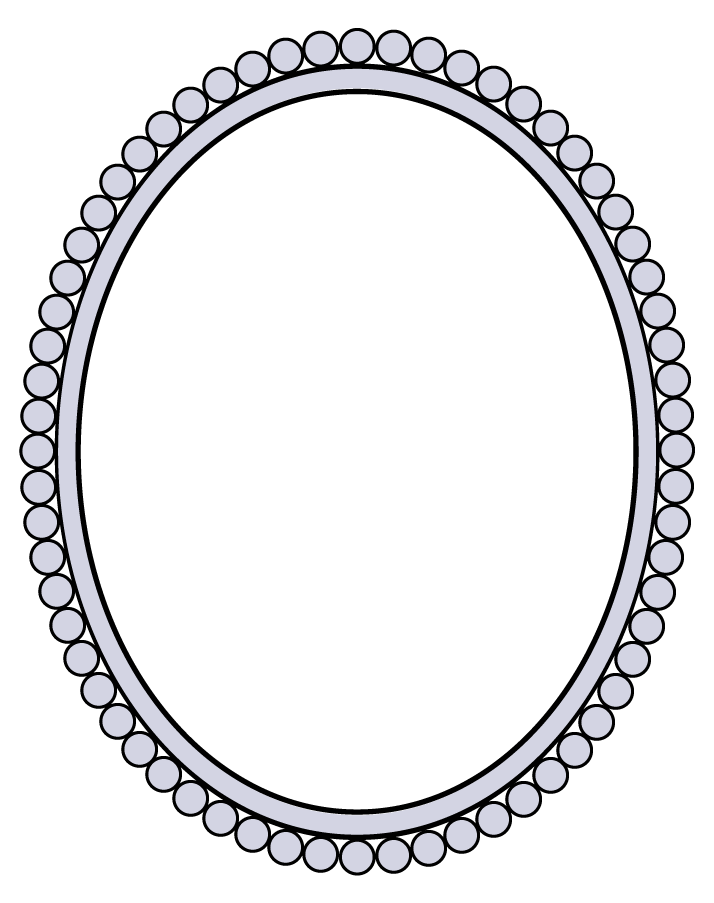
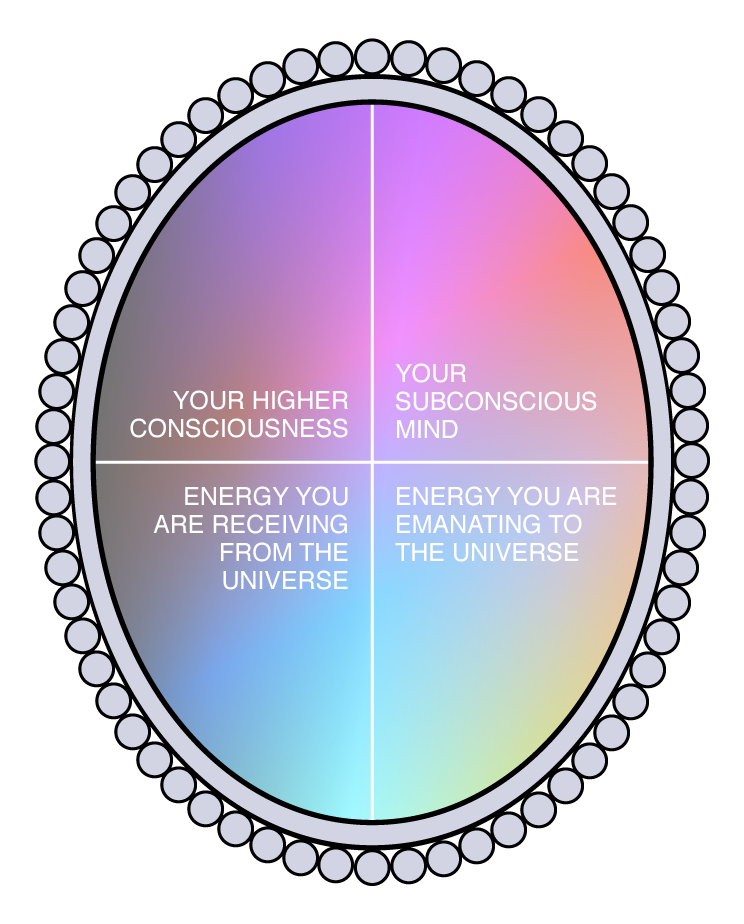
835

diff --git a/magic/flip/style.css b/magic/flip/style.css
@@ -9,21 +9,18 @@
 }
 
 body {
-  margin: 0;
-  padding: 0;
-  background-image: linear-gradient(to bottom right, #22ffef, #7c40ff, #ced32d, #ef0dff);
-  background-attachment: fixed;
-  background-position: center;
-  background-repeat: no-repeat;
-  background-size: cover;
   font-family: WindsorMTStd;
+  /*cursor: url(images/glimmer.png), auto;*/
 }
 
-.blackbox p{
+.intro p{
   color:#d3d4e3;
-  bottom: 11px;
-  right: 12px;
+  top: 17px;
+  left: 17px;
   position: absolute;
+  font-size: 1.5em;
+  text-align: left;
+  width:300px;
 }
 
 .front {
@@ -41,16 +38,16 @@ body {
 }
 
 .gradient2 {
-  height:68vh;
+  height:66vh;
   width:50vh;
   border-radius: 50%;
   position: fixed;
-   text-align: center;
-    margin: 0;
-    top: 50%;
-    left: 50%;
-    -ms-transform: translate(-50%, -50%);
-    transform: translate(-50%, -50%);
+  text-align: center;
+  margin: 0;
+  top: 50%;
+  left: 50%;
+  -ms-transform: translate(-50%, -50%);
+  transform: translate(-50%, -50%);
 }
 
 .front img {
@@ -78,28 +75,6 @@ body {
     top: 46vh;
 }
 
-.back p{
-  color:black;
-  font-size: 3em;
-  text-align: center;
-  width:280px;
-  margin:0 auto;
-  padding-top:100px;
-}
-
-.ringback {
-  height:68vh;
-  width:50vh;
-  border-radius: 50%;
-  background-color: #d3d4e3;
-  position: fixed;
-  text-align: center;
-  margin: 0;
-  left: 50%;
-  -ms-transform: translate(-50%, -50%);
-  transform: translate(-50%, -50%);
-}
-
 .back img {
   height:80vh;
   position: fixed;
@@ -113,5 +88,95 @@ body {
 .back img:hover {
   cursor: pointer;
 }
+
+#key {
+  position: absolute;
+  bottom: 53px;
+  right: 10px;
+  display: none;
+}
+
+#key img{
+  width: 360px;
+}
+
+button{
+  background-color: black;
+  color:#d3d4e3;
+  bottom: 17px;
+  right: 17px;
+  position: absolute;
+  font-size: 1.5em;
+  font-family: WindsorMTStd;
+  border: none;
+}
+
+button:focus {outline:0;}
+
+button:hover {
+  cursor: pointer;
+}
+
+
+@media screen and (min-width: 0px) and (max-width: 400px) {
+
+.blackbox {
+  padding;left: 15px;
+  padding;right: 15px;
+  padding;bottom: 15px;
+  padding;top: 15px;
+}
+
+.intro p{
+  top: 10px;
+  left: 10px;
+  font-size: 1em;
+  text-align: left;
+}
+
+button{
+  bottom: 10px;
+  right: 10px;
+  font-size: 1em;
+}
+
+#key {
+  bottom: 30px;
+  right: 7px;
+}
+
+#key img{
+  width: 200px;
+}
+
+.gradient2 {
+  height:46vh;
+  width:35vh;
+    top: 76%;
+  -ms-transform: translate(-50%, -76%);
+  transform: translate(-50%, -76%);
+}
+
+.front img {
+  height:55vh;
+  top: 72%;
+  -ms-transform: translate(-50%, -72%);
+  transform: translate(-50%, -72%);
+}
+
+.back img {
+  height:55vh;
+    top: 72%;
+  -ms-transform: translate(-50%, -72%);
+  transform: translate(-50%, -72%);
+}
+
+}
+
+
+
+
+
+
 
 

diff --git a/magic/flip/index.html b/magic/flip/index.html
@@ -3,7 +3,7 @@
 <head>
     <meta charset="utf-8">
     <meta content="ie=edge" http-equiv="x-ua-compatible">
-    <title>Mood Temp</title>
+    <title>Mood Ring</title>
     <meta content="width=device-width, initial-scale=1" name="viewport">
     <link href="style.css" rel="stylesheet">
     <link rel="shortcut icon" href="images/glimmer.png" type="image/x-icon">
@@ -23,16 +23,26 @@
     <!-- Your own javascript file -->
     <script src="script.js"></script>
     <script src="../magic.js"></script>
+    <script src="../magic2.js"></script>
+    <script src="toggle.js"></script>
 
 </head>
 <body>
 	<div class="blackbox">
-     <p>Click Mood Ring to Reveal</p>
-    </div>
+        <div class="intro">
+            <p>Click the oval when the color suits your mood.</p>
+        </div>    
+
+        <button onclick="myFunction()">Key</button>
+        <div id="key">
+            <img src="images/key.png">
+        </div>
+
 
  <div id="card">  
 
     <div class="front"> 
+
 
 <div class="gradient2"></div>
 <img src="images/frame2big.png">
@@ -40,19 +50,12 @@
     </div> 
 
 	<div class="back">
-			
-<div class="ringback">
-    <p>It is 
-        <br/>
-        54°F. in
-        <br/> Keene, NH</p>
-</div>
+		<div class="gradient2"></div>
 <img src="images/backframebig.png">
+		</div>
 
-	</div>
 </div>
-
-
+</div>
 
 
 

diff --git a/magic/magic.js b/magic/magic.js
@@ -16,7 +16,7 @@ var step = 0;
 var colorIndices = [0,1,2,3];
 
 //transition speed
-var gradientSpeed = 0.001;
+var gradientSpeed = 0.000006;
 
 function updateGradient()
 {
@@ -41,7 +41,7 @@ var color2 = "rgb("+r2+","+g2+","+b2+")";
 
  $('.gradient2').css({
    background: "-webkit-gradient(linear, left top, right top, from("+color1+"), to("+color2+"))"}).css({
-    background: "-moz-linear-gradient(left, "+color1+" 0%, "+color2+" 100%)"});
+   background: "-moz-linear-gradient(left, "+color1+" 0%, "+color2+" 100%)"});
   
   step += gradientSpeed;
   if ( step >= 1 )
@@ -59,3 +59,9 @@ var color2 = "rgb("+r2+","+g2+","+b2+")";
 }
 
 setInterval(updateGradient,10);
+
+
+
+
+
+

diff --git a/magic/magic2.js b/magic/magic2.js
@@ -16,7 +16,7 @@ var step = 0;
 var colorIndices = [0,1,2,3];
 
 //transition speed
-var gradientSpeed = 0.0009;
+var gradientSpeed = 0.0008;
 
 function updateGradient()
 {
@@ -39,7 +39,7 @@ var g2 = Math.round(istep * c1_0[1] + step * c1_1[1]);
 var b2 = Math.round(istep * c1_0[2] + step * c1_1[2]);
 var color2 = "rgb("+r2+","+g2+","+b2+")";
 
- $('#ring1').css({
+ $('body').css({
    background: "-webkit-gradient(linear, left top, right top, from("+color1+"), to("+color2+"))"}).css({
     background: "-moz-linear-gradient(left, "+color1+" 0%, "+color2+" 100%)"});
   

diff --git a/magic/flip/toggle.js b/magic/flip/toggle.js
@@ -1,0 +1,8 @@
+function myFunction() {
+  var x = document.getElementById("key");
+  if (x.style.display === "block") {
+    x.style.display = "none";
+  } else {
+    x.style.display = "block";
+  }
+}

diff --git a/magic/flip/script.js b/magic/flip/script.js
@@ -5,3 +5,4 @@ $("#card").flip();
 
 
 
+
